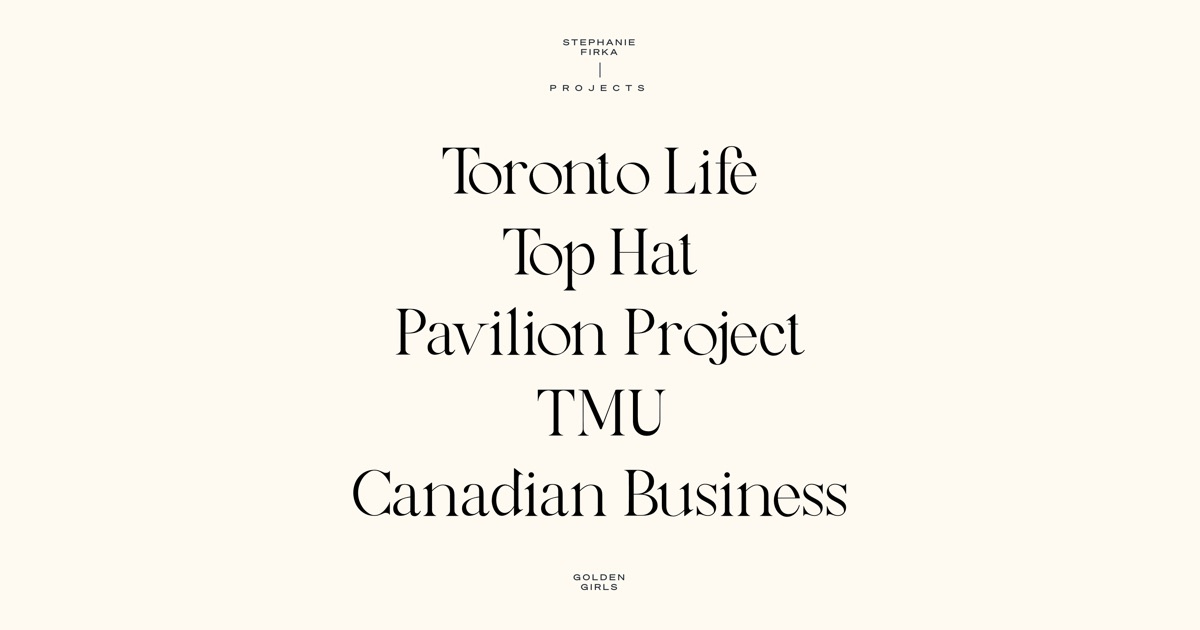
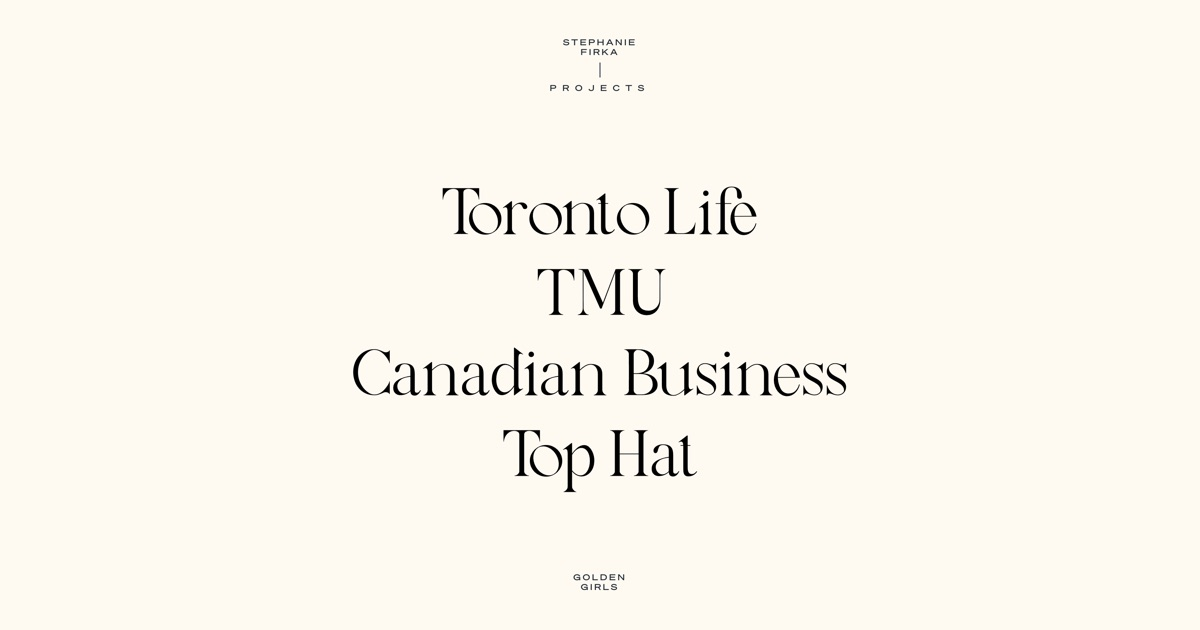
Take down Pavilion Project and reorder to Steph's four
Her first content change, and the first place this branch stops matching
the live V1 site. New running order: Toronto Life, TMU, Canadian
Business, Top Hat.

Removing a project is not just a deleted route. Everything that encoded
the old order had to move with it:

- The next-project block at the foot of each page hard-codes its own
  destination, so the chain was rewired by hand and now wraps Top Hat
  back to Toronto Life. Each preview thumbnail was swapped to match its
  new destination - those would otherwise have gone quietly stale,
  showing the wrong project behind the right label.
- siteConfig.routes drops the route and follows the new order, which
  updates the sitemap and the parity harness together.
- /pavilion-project/ 308s to home. It was live for years and is indexed,
  so it redirects rather than 404s.
- public/seo/og-default.jpg is a screenshot of the home page, so it
  still listed Pavilion in every link preview. Regenerated to the
  documented recipe.

The five spread images and the preview thumbnail are deleted rather than
orphaned, since nothing else referenced them.

Comments that counted "five" projects, and reveal.js's worked example of
the stagger timing, are corrected to four. The `pavillion` class on
toronto-life's next-project block stays: it is dead - no stylesheet
targets it - and it is kept for DOM parity like its `block` siblings.

Verified on a production build by clicking the chain through in a
[…]

Changed region(s): [[0.2775, 0.2111, 0.7092, 0.8444]]

diff --git a/src/components/ProjectList.jsx b/src/components/ProjectList.jsx
@@ -1,12 +1,13 @@
 /*
- * The five project titles, revealed on a stagger.
+ * The four project titles, revealed on a stagger.
  * ------------------------------------------------------------------------------
  * Each title is split into words by Motion+'s splitText, then animated up on a
  * spring. Two rhythms are nested: words cascade inside a title every
  * PART_STAGGER, and each whole title is pushed back by HOME_STAGGER via
  * stagger()'s `startDelay`. Both live in lib/reveal.js - tune the reveal there,
  * not here. HOME_STAGGER is quicker than the GROUP_STAGGER the other pages use,
- * because five titles at the same spacing take too long to finish arriving.
+ * because a run of titles at the same spacing takes too long to finish
+ * arriving.
  *
  * Words, not characters, and that is not a style preference. splitText gives
  * every fragment `display: inline-block`, which ends the text run - so a
@@ -48,13 +49,15 @@ import { splitText } from 'motion-plus-dom';
 import NavLink from './NavLink';
 import { HOME_STAGGER, PART_STAGGER, TRAVEL, SPRING, REDUCED_FADE } from '@/lib/reveal';
 
-/* Ported verbatim from pages/index.vue - order is the site's, not alphabetical. */
+/* Stephanie's order, not alphabetical. This list is the site's running order:
+ * the `next` block at the foot of each project page follows it and wraps from
+ * the last title back to the first, so reordering here means rewiring those
+ * too. */
 const PROJECTS = [
   { href: '/toronto-life', label: 'Toronto Life' },
-  { href: '/top-hat', label: 'Top Hat' },
-  { href: '/pavilion-project', label: 'Pavilion Project' },
   { href: '/tmu', label: 'TMU' },
-  { href: '/canadian-business', label: 'Canadian Business' }
+  { href: '/canadian-business', label: 'Canadian Business' },
+  { href: '/top-hat', label: 'Top Hat' }
 ];
 
 export default function ProjectList() {

diff --git a/src/lib/reveal.js b/src/lib/reveal.js
@@ -16,17 +16,18 @@
  *
  * Home gets its own, quicker figure. Stagger is felt as the wait for the last
  * item, not as the gap between any two, so the same 0.2s that reads as
- * unhurried across /me's three sections drags across five project titles -
- * 0.8s before the last one even moves.
+ * unhurried across /me's three sections drags down a list of project titles.
  *
- * The fifth title starts at four times HOME_STAGGER, so 0.07 has the whole list
- * underway by 0.28s. Well inside the 0.9s each title takes to settle, which is
- * the point: the arrivals overlap, and the list reads as one gesture travelling
- * down the page rather than five separate entrances.
+ * The last title starts at (count - 1) x HOME_STAGGER, so 0.07 has the current
+ * four underway by 0.21s. Well inside the 0.9s each title takes to settle,
+ * which is the point: the arrivals overlap, and the list reads as one gesture
+ * travelling down the page rather than four separate entrances. The figure was
+ * tuned when the list held five - it still reads right at four, but it is the
+ * knob to revisit if titles are added or removed again.
  */
 
 export const GROUP_STAGGER = 0.2; // seconds between groups
-export const HOME_STAGGER = 0.07; // seconds between the five homepage titles
+export const HOME_STAGGER = 0.07; // seconds between the homepage titles
 export const PART_STAGGER = 0.06; // seconds between parts inside one group
 export const TRAVEL = 24; // px each part rises through
 

diff --git a/src/components/NextProject.jsx b/src/components/NextProject.jsx
@@ -3,12 +3,17 @@
  * ------------------------------------------------------------------------------
  * Closes every project page: its own nav, a dimmed preview image, the big link
  * onward, and a second Golden Girls footer. This markup was duplicated verbatim
- * in all five .vue project pages.
+ * in every .vue project page.
  *
- * `variant` carries the second class the original markup had ("block" on four
- * pages, "pavillion" on toronto-life). Nothing in the stylesheets targets
+ * `href`/`label`/`image` come from the page above; the running order they
+ * follow is the PROJECTS list in components/ProjectList.jsx, and the last page
+ * wraps back to the first.
+ *
+ * `variant` carries the second class the original markup had ("block"
+ * everywhere, "pavillion" on toronto-life). Nothing in the stylesheets targets
  * either - they are dead classes - but they are kept so the DOM matches the old
- * site exactly.
+ * site exactly. The odd name outlived the Pavilion Project page it was named
+ * after; it is inert, not a leftover link.
  *
  * Styled by the `.next-project` rules in styles/global.scss.
  */

diff --git a/src/app/canadian-business/page.jsx b/src/app/canadian-business/page.jsx
@@ -12,7 +12,7 @@
 import Image from 'next/image';
 import ProjectPage from '@/components/ProjectPage';
 import { sizesFor } from '@/lib/image-sizes';
-import nextImage from '@/images/toronto-life.jpg';
+import nextImage from '@/images/top-hat.jpg';
 import cb16 from '@/images/canadian-business/CB17_JAN2017_HI-16.jpg';
 import cb17 from '@/images/canadian-business/CB17_JAN2017_HI-17.jpg';
 import bestPackage from '@/images/canadian-business/BestPackagenew.jpg';
@@ -43,8 +43,8 @@ export default function CanadianBusiness() {
         </>
       }
       next={{
-        href: '/toronto-life',
-        label: 'Toronto Life',
+        href: '/top-hat',
+        label: 'Top Hat',
         image: nextImage,
         variant: 'block'
       }}

diff --git a/src/app/top-hat/page.jsx b/src/app/top-hat/page.jsx
@@ -9,7 +9,7 @@
 import Image from 'next/image';
 import ProjectPage from '@/components/ProjectPage';
 import { sizesFor } from '@/lib/image-sizes';
-import nextImage from '@/images/pavilion-project.jpg';
+import nextImage from '@/images/toronto-life.jpg';
 import th01 from '@/images/top-hat/TH-01.jpg';
 import th02 from '@/images/top-hat/TH-02.jpg';
 import th03 from '@/images/top-hat/TH-03.jpg';
@@ -40,8 +40,8 @@ export default function TopHat() {
         </>
       }
       next={{
-        href: '/pavilion-project',
-        label: 'Pavilion Project',
+        href: '/toronto-life',
+        label: 'Toronto Life',
         image: nextImage,
         variant: 'block'
       }}

diff --git a/src/app/toronto-life/page.jsx b/src/app/toronto-life/page.jsx
@@ -12,7 +12,7 @@
 import Image from 'next/image';
 import ProjectPage from '@/components/ProjectPage';
 import { sizesFor } from '@/lib/image-sizes';
-import nextImage from '@/images/top-hat.jpg';
+import nextImage from '@/images/tmu.jpg';
 import tl01 from '@/images/toronto-life/TL-01.jpg';
 import tl02 from '@/images/toronto-life/TL-02.jpg';
 import tl03 from '@/images/toronto-life/TL-03.jpg';
@@ -43,8 +43,8 @@ export default function TorontoLife() {
         </div>
       }
       next={{
-        href: '/top-hat',
-        label: 'Top Hat',
+        href: '/tmu',
+        label: 'TMU',
         image: nextImage,
         variant: 'pavillion'
       }}

diff --git a/src/app/page.jsx b/src/app/page.jsx
@@ -1,7 +1,7 @@
 /*
  * Home - the project index.
  * ------------------------------------------------------------------------------
- * The five project names, set large, and nothing else. The header and footer
+ * The project names, set large, and nothing else. The header and footer
  * come from Shell; `body.home` in global.scss paints the cream background.
  *
  * The list itself lives in ProjectList, which is a client component because it

diff --git a/src/components/ProjectPage.jsx b/src/components/ProjectPage.jsx
@@ -1,5 +1,5 @@
 /*
- * Shared shell for the five project pages.
+ * Shared shell for the project pages.
  * ------------------------------------------------------------------------------
  * Title, credits, the image column, then the next-project block. Reproduces the
  * markup of the old .vue pages exactly:

diff --git a/src/lib/site.config.js b/src/lib/site.config.js
@@ -37,10 +37,9 @@ export const siteConfig = {
   routes: [
     '/',
     '/toronto-life/',
-    '/top-hat/',
-    '/pavilion-project/',
     '/tmu/',
     '/canadian-business/',
+    '/top-hat/',
     '/me/',
     '/golden-girls/'
   ]

diff --git a/.agents/skills/verify/SKILL.md b/.agents/skills/verify/SKILL.md
@@ -6,8 +6,15 @@ description: How to build, run, and visually verify changes to the Stephanie Fir
 # Verifying changes in this repo
 
 This site is a port of a Nuxt 2 site that is **still live at
-https://stephfirka.com**. Production is the reference implementation: until the
-DNS cutover, any rendering difference is a bug in this repo, not in production.
+https://stephfirka.com**. Production is the reference implementation for
+_rendering_: until the DNS cutover, any styling, layout or type difference is a
+bug in this repo, not in production.
+
+It is no longer the reference for _content_. Stephanie retired the Pavilion
+Project in August 2026 and reset the running order to Toronto Life, TMU,
+Canadian Business, Top Hat. Production still shows the old five in the old
+order, so see "Deliberate content divergence" below before reading a parity
+failure as a regression.
 
 ## Build / lint
 
@@ -51,6 +58,26 @@ Node prints a `MODULE_TYPELESS_PACKAGE_JSON` warning when the script imports
 one to silence a cosmetic warning in an occasional script isn't worth the blast
 radius.
 
+### Deliberate content divergence
+
+Until production is redeployed, these routes are _meant_ to differ from it:
+
+- `/` — four titles, not five, and in a different order. A full-page diff here
+  is expected; what still has to hold is the type, the cream background and the
+  footer's position.
+- every project page's `.next-project` block — the label, link and preview image
+  all moved when the chain was rewired. The spreads above it are unchanged and
+  should still diff clean.
+- `/pavilion-project/` — gone. Requesting it locally 308s to `/`; on production
+  it still renders. `compare.mjs` no longer visits it, since routes come from
+  `site.config.js`.
+
+The running order lives in one place, `PROJECTS` in `components/ProjectList.jsx`.
+Each project page's `next` prop follows it and the last page wraps to the first,
+so changing that list means rewiring those props by hand — nothing derives them.
+Walk the chain in a browser after any reorder; a typo leaves a project
+unreachable from the page before it, which no build or lint step will catch.
+
 ### Expected, non-zero differences
 
 Since images gained `sizes` props, production and this site no longer fetch the
@@ -89,8 +116,10 @@ These each produced a false result at least once. Trust them.
 
 ## Regenerating the OG image
 
-`public/seo/og-default.jpg` is a capture of the site's own home page. If the home
-page changes, regenerate it: screenshot `/` at **1600x840** with
+`public/seo/og-default.jpg` is a capture of the site's own home page — so it
+lists the project names, and goes stale the moment that list changes. It was
+last regenerated when Pavilion Project came out. If the home page changes,
+regenerate it: screenshot `/` at **1600x840** with
 `deviceScaleFactor: 2`, then downscale to 1200x630
 (`sips -s format jpeg -s formatOptions 82 -z 630 1200 in.png --out out.jpg`).
 Capturing at 1200x630 directly clips the last project name.
